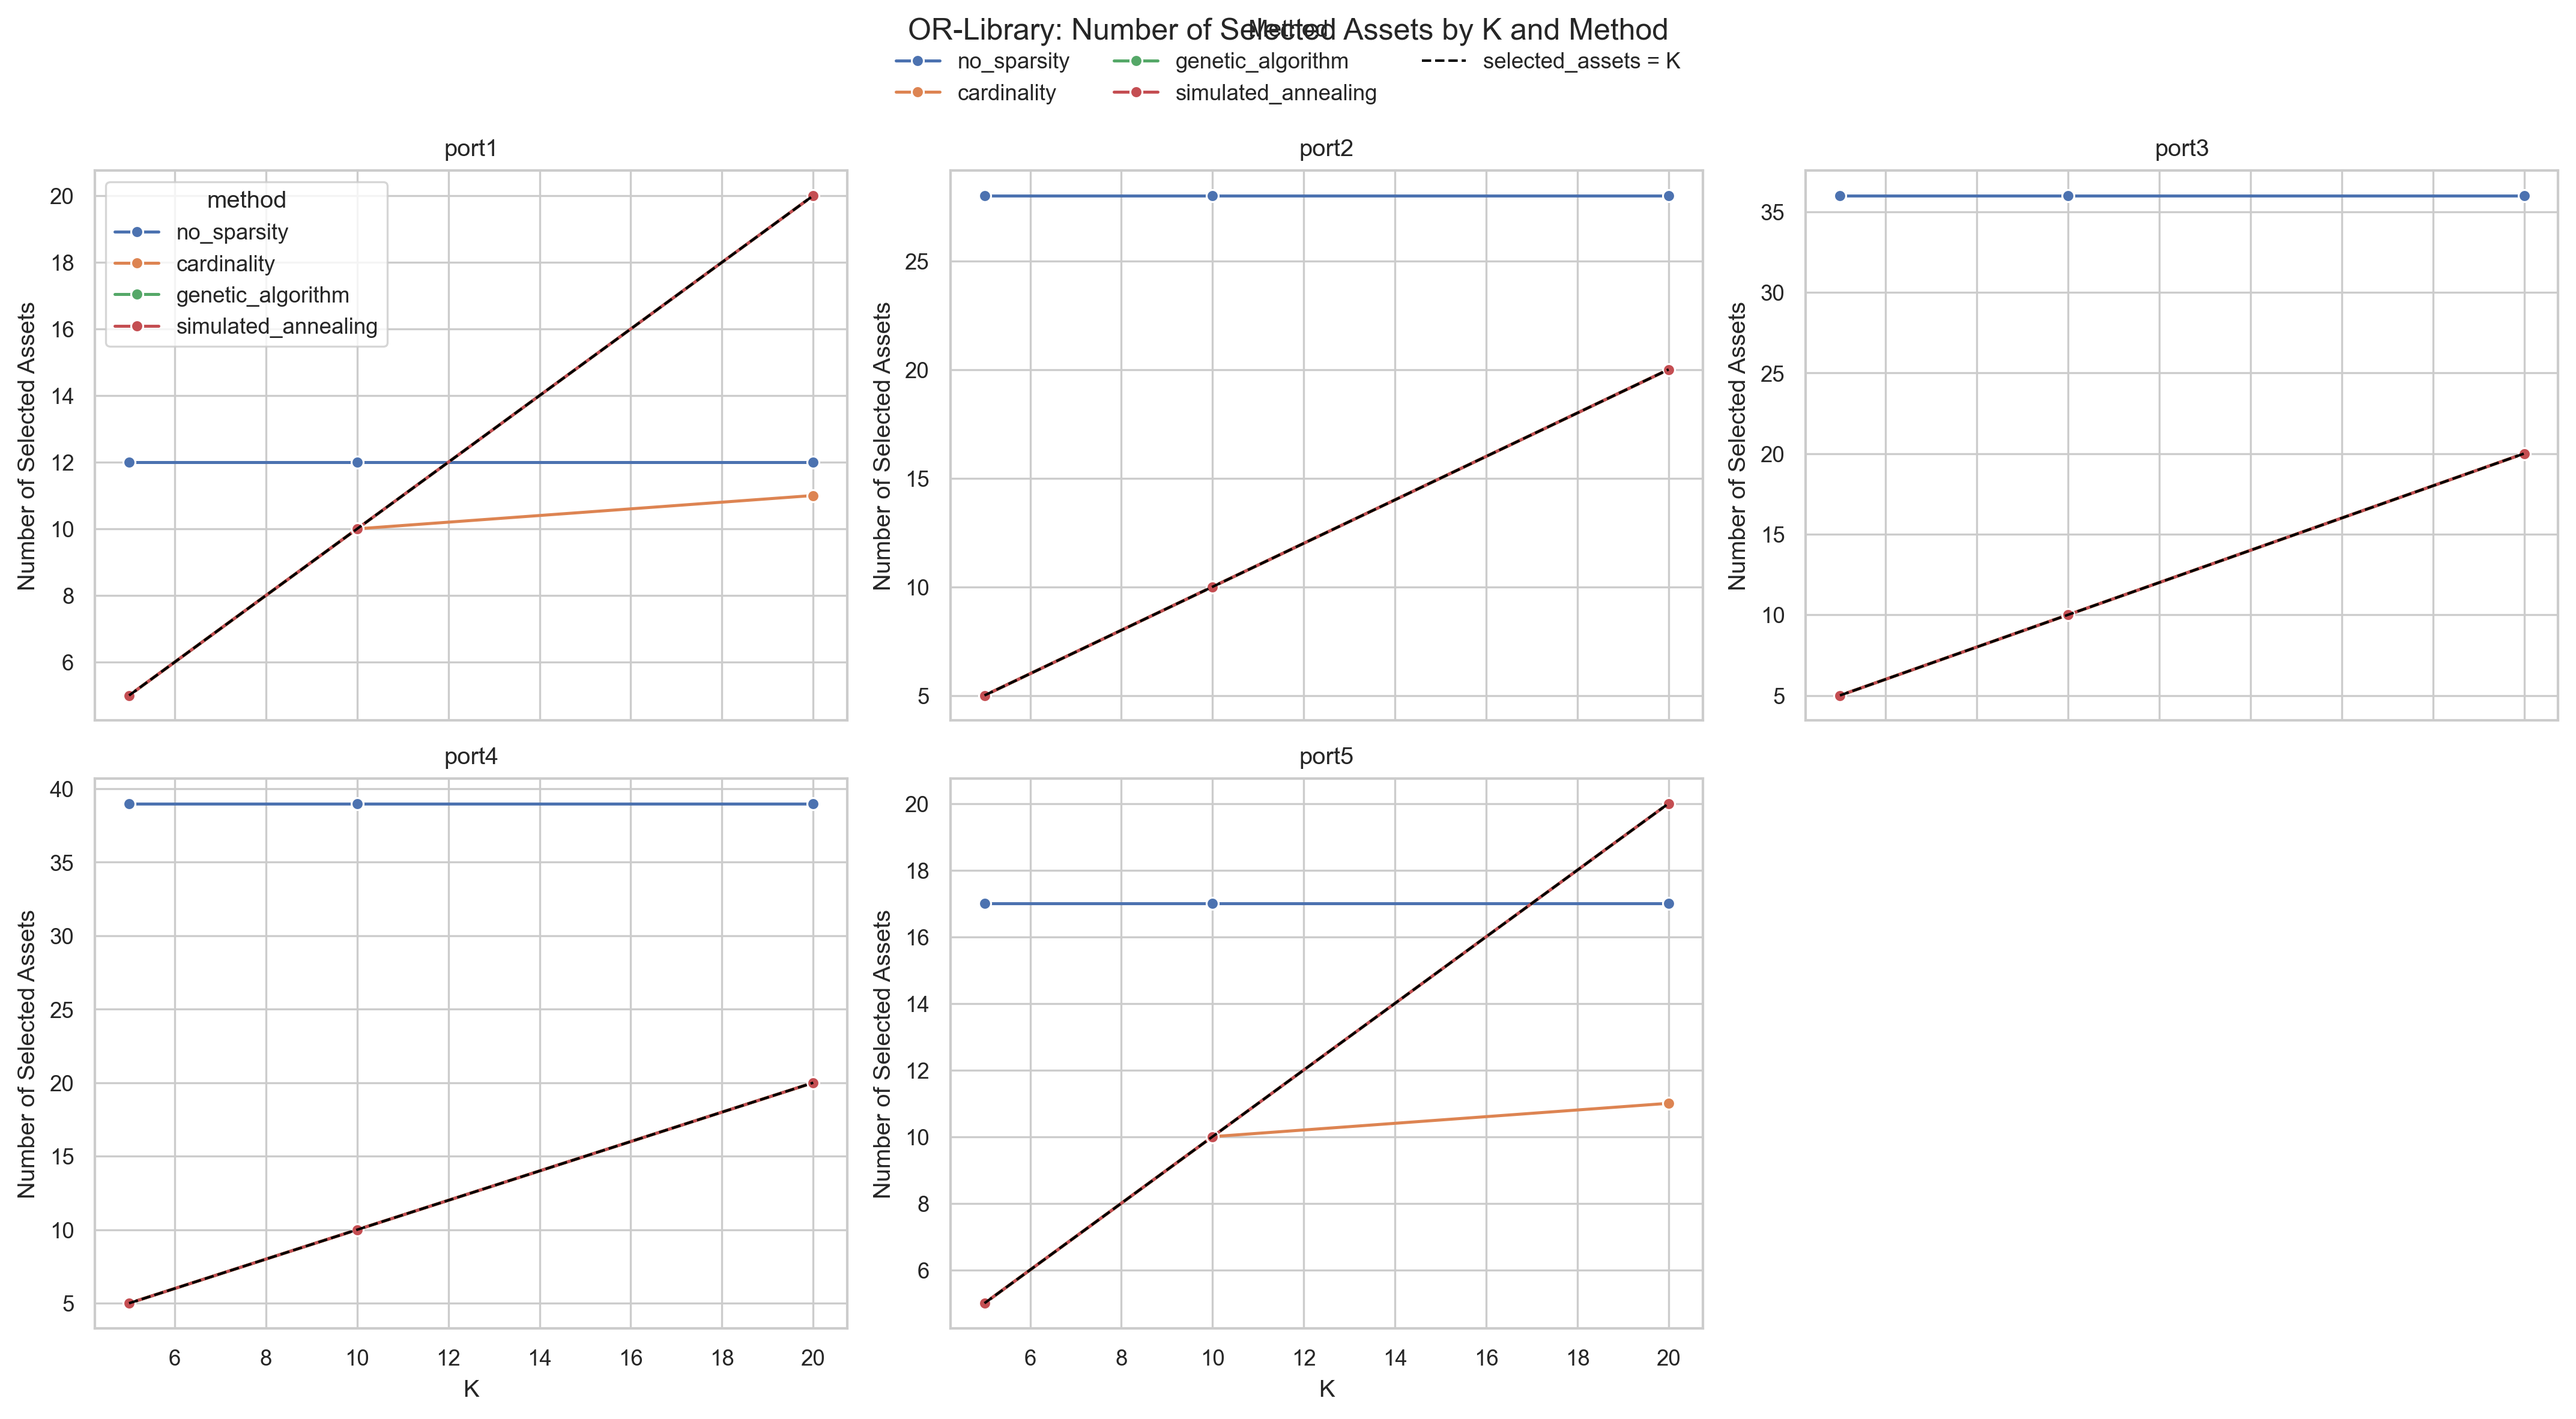
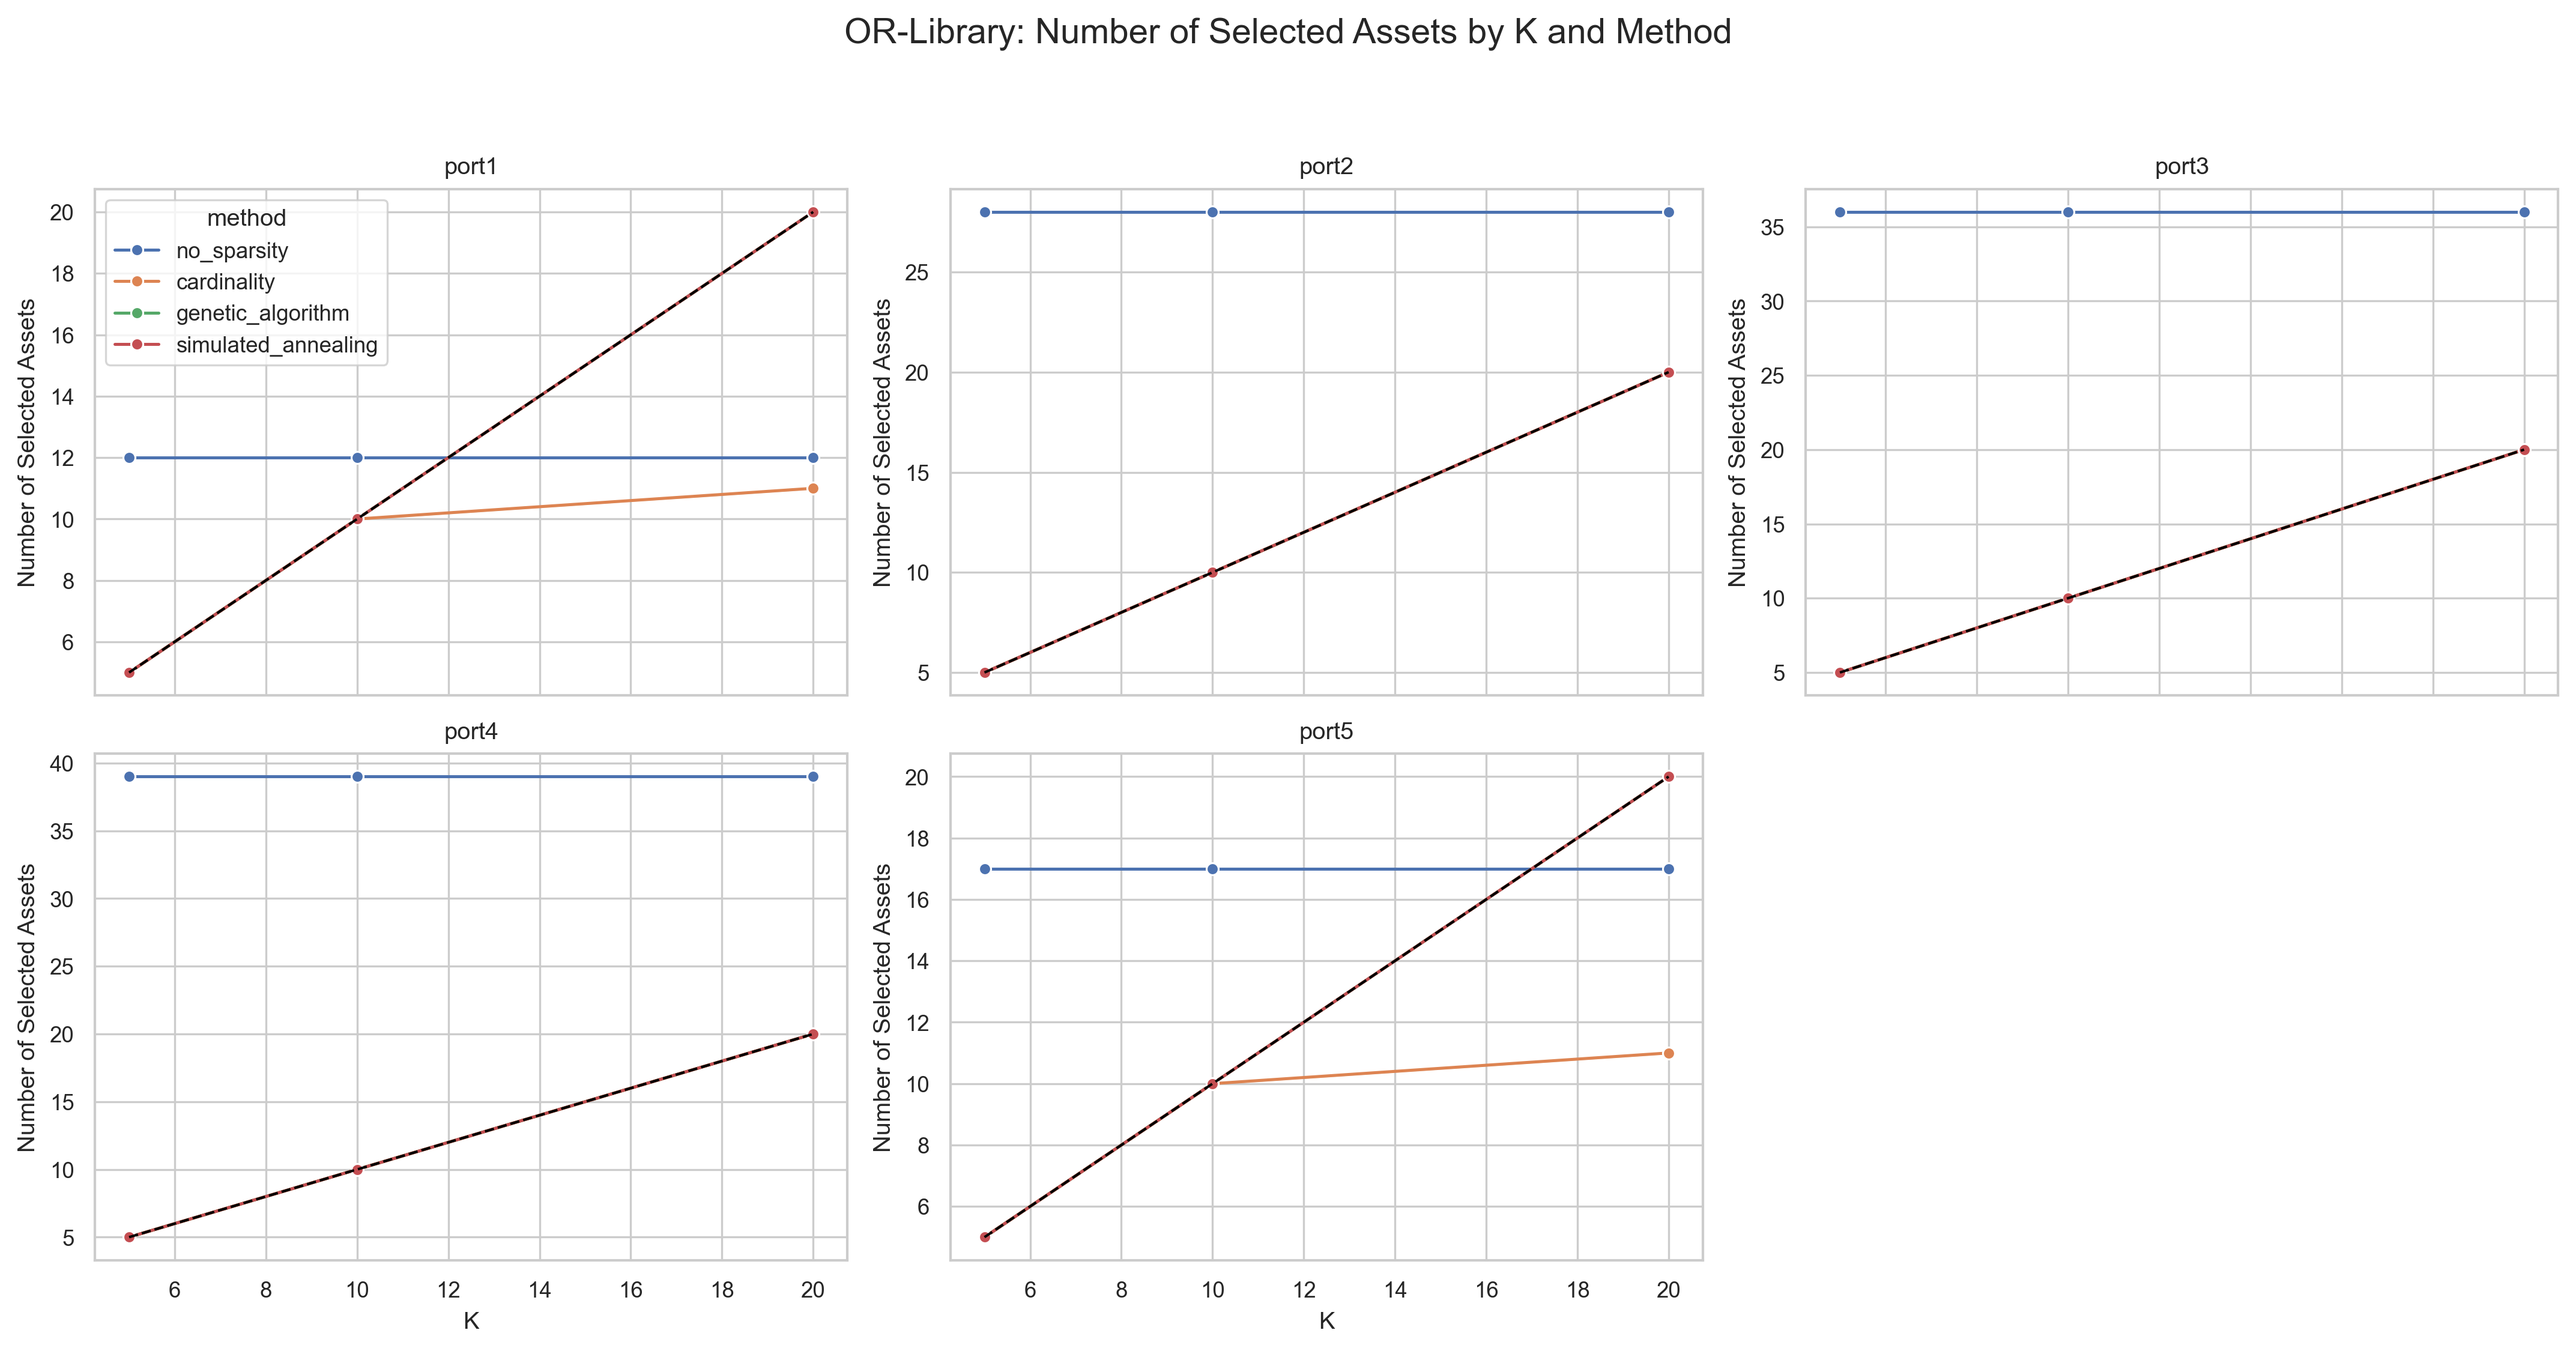
Fix portfolio figure layout and plotting input

diff --git a/experiments/create_portfolio_final_plots.py b/experiments/create_portfolio_final_plots.py
@@ -2,7 +2,7 @@
 
 Inputs
 ------
-- results/tables/portfolio_orlibrary_full_results.csv
+- results/tables/portfolio_orlibrary_full_summary.csv
 - results/tables/portfolio_overall_summary.csv
 
 Outputs
@@ -25,7 +25,7 @@ ROOT = Path(__file__).resolve().parents[1]
 TABLES_DIR = ROOT / "results" / "tables"
 FIGURES_DIR = ROOT / "results" / "figures"
 
-FULL_RESULTS_PATH = TABLES_DIR / "portfolio_orlibrary_full_results.csv"
+FULL_RESULTS_PATH = TABLES_DIR / "portfolio_orlibrary_full_summary.csv"
 OVERALL_SUMMARY_PATH = TABLES_DIR / "portfolio_overall_summary.csv"
 COMPACT_SUMMARY_PATH = TABLES_DIR / "portfolio_orlibrary_compact_summary.csv"
 
@@ -49,13 +49,17 @@ def _ensure_dirs() -> None:
 
 
 def _load_tables() -> tuple[pd.DataFrame, pd.DataFrame]:
-    if not FULL_RESULTS_PATH.exists():
-        raise FileNotFoundError(f"Missing full OR-Library results file: {FULL_RESULTS_PATH}")
     if not OVERALL_SUMMARY_PATH.exists():
         raise FileNotFoundError(f"Missing overall portfolio summary file: {OVERALL_SUMMARY_PATH}")
 
-    full_results = pd.read_csv(FULL_RESULTS_PATH)
     overall_summary = pd.read_csv(OVERALL_SUMMARY_PATH)
+
+    # Use OR-Library rows from the overall summary for the two main line plots.
+    full_results = overall_summary[
+        (overall_summary["experiment"] == "OR-Library")
+        & (overall_summary["category"].isin(CATEGORY_ORDER))
+    ].copy()
+
     return full_results, overall_summary
 
 
@@ -66,9 +70,6 @@ def _prepare_full_orlibrary(full_results: pd.DataFrame) -> pd.DataFrame:
         "method",
         "variance",
         "number_of_selected_assets",
-        "solve_time",
-        "reduced_instance",
-        "reduction_rule",
     }
     missing = sorted(required - set(full_results.columns))
     if missing:
@@ -88,7 +89,8 @@ def _prepare_full_orlibrary(full_results: pd.DataFrame) -> pd.DataFrame:
     df["K"] = pd.to_numeric(df["K"], errors="coerce")
     df["variance"] = pd.to_numeric(df["variance"], errors="coerce")
     df["number_of_selected_assets"] = pd.to_numeric(df["number_of_selected_assets"], errors="coerce")
-    df["solve_time"] = pd.to_numeric(df["solve_time"], errors="coerce")
+    if "solve_time" in df.columns:
+        df["solve_time"] = pd.to_numeric(df["solve_time"], errors="coerce")
 
     df = df.dropna(subset=["dataset", "K", "method"])
     df = df.sort_values(["dataset", "K", "method"]).reset_index(drop=True)
@@ -125,12 +127,8 @@ def _plot_variance_by_k_and_method(df: pd.DataFrame) -> None:
     for idx in range(len(datasets), len(axes)):
         axes[idx].axis("off")
 
-    handles, labels = axes[0].get_legend_handles_labels()
-    if handles and labels:
-        fig.legend(handles, labels, loc="upper center", ncol=4, frameon=False, title="Method")
-
-    fig.suptitle("OR-Library: Portfolio Variance by K and Method", y=1.03, fontsize=12)
-    fig.tight_layout()
+    fig.suptitle("OR-Library: Portfolio Variance by K and Method", fontsize=14, y=0.98)
+    fig.tight_layout(rect=[0, 0, 1, 0.94])
     fig.savefig(VARIANCE_FIG_PATH, dpi=300, bbox_inches="tight")
     plt.close(fig)
 
@@ -170,12 +168,8 @@ def _plot_selected_assets_by_k_and_method(df: pd.DataFrame) -> None:
     for idx in range(len(datasets), len(axes)):
         axes[idx].axis("off")
 
-    handles, labels = axes[0].get_legend_handles_labels()
-    if handles and labels:
-        fig.legend(handles, labels, loc="upper center", ncol=3, frameon=False, title="Method")
-
-    fig.suptitle("OR-Library: Number of Selected Assets by K and Method", y=1.03, fontsize=12)
-    fig.tight_layout()
+    fig.suptitle("OR-Library: Number of Selected Assets by K and Method", fontsize=14, y=0.98)
+    fig.tight_layout(rect=[0, 0, 1, 0.94])
     fig.savefig(SELECTED_ASSETS_FIG_PATH, dpi=300, bbox_inches="tight")
     plt.close(fig)
 
